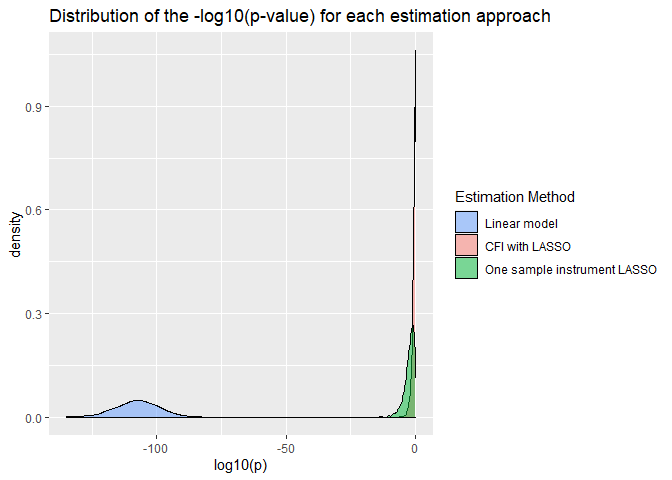
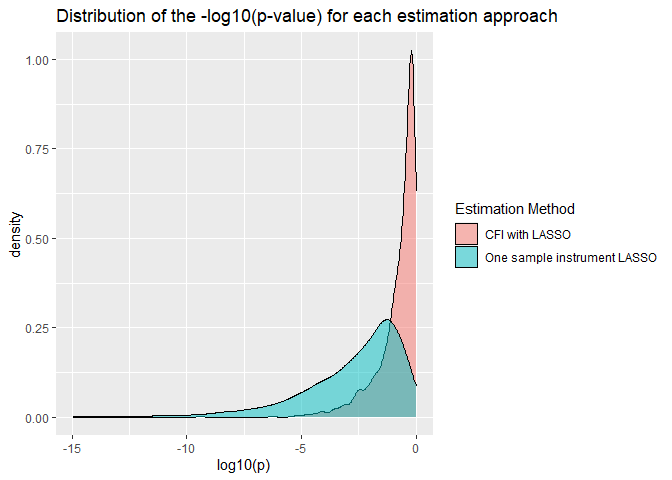
update

diff --git a/README.md b/README.md
@@ -128,7 +128,7 @@ plot(X,Y, main="Estimation of the effect of X on Y")
 abline(a=0,b=summary(res0)$coef[2,1], col="black", lwd=2)
 abline(a=0,b=summary(res1)$coef[2,1], col="red", lwd=2)
 abline(a=0,b=summary(res2)$coef[2,1], col="blue", lwd=2)
-abline(a=0,b=1, col="blue", lwd=2, lty=2)
+abline(a=0,b=1, col="blue", lwd=4, lty=2)
 legend( x=-5, y=7,
         bty = "n",
         lty= c(1,1,1,2),
@@ -153,11 +153,11 @@ line) is biased towards the confounded estimate based on linear model
 
 ### Some larger simulations
 
-Here we perform 1000 estimations of the effect of X on Y (parameter
-n=2000, p=100, np\_act=5,beta=0.08,h2=0.1) using CFI, one sample
-instrument LASSO estimate, and a standard linear model. The function
-used for the simulations can be found at the end of this document or in
-the folder CFMR\_simulation\_code.
+Here we simulate 2000 data sets and on each of them wethe effect of X on
+Y (simulation parameters n=2000, p=100, np\_act=5,beta=0.08,h2=0.1)
+using CFI, one sample instrument LASSO estimate, and a standard linear
+model. The function used for the simulations can be found at the end of
+this document or in the folder CFMR\_simulation\_code.
 
 ![](README_files/figure-gfm/unnamed-chunk-3-1.png)<!-- -->
 
@@ -165,9 +165,13 @@ Clearly, LM and one sample IV Lasso are overconfident and biased. In the
 plot below, we see that the linear model and On sample instrument LASSO
 have smaller standard errors than CFI with LASSO, which implies
 overconfidence in the significance of the estimated
-effect.
+    effect.
 
-![](README_files/figure-gfm/unnamed-chunk-4-1.png)<!-- -->![](README_files/figure-gfm/unnamed-chunk-4-2.png)<!-- -->
+![](README_files/figure-gfm/unnamed-chunk-4-1.png)<!-- -->
+
+    ## Warning: Removed 2000 rows containing non-finite values (stat_density).
+
+![](README_files/figure-gfm/unnamed-chunk-4-2.png)<!-- -->
 
 ## Simulation function
 
